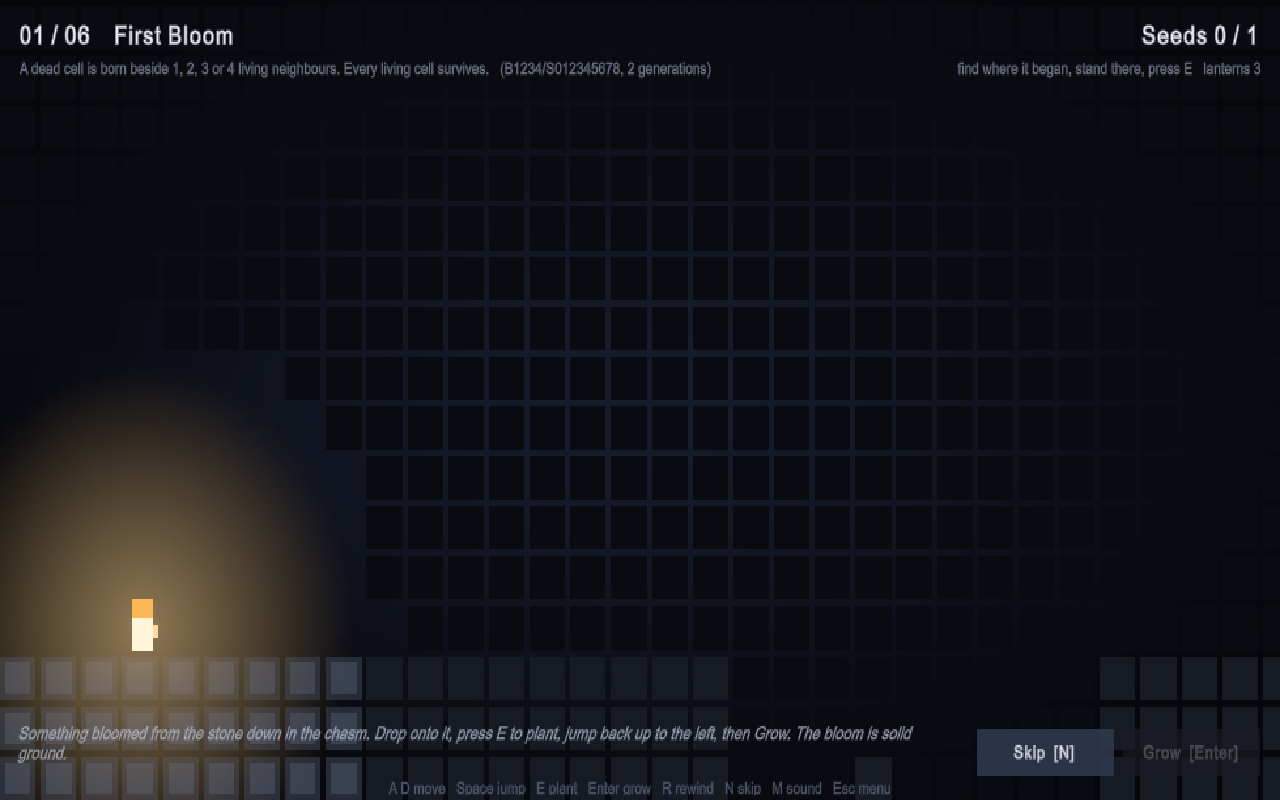
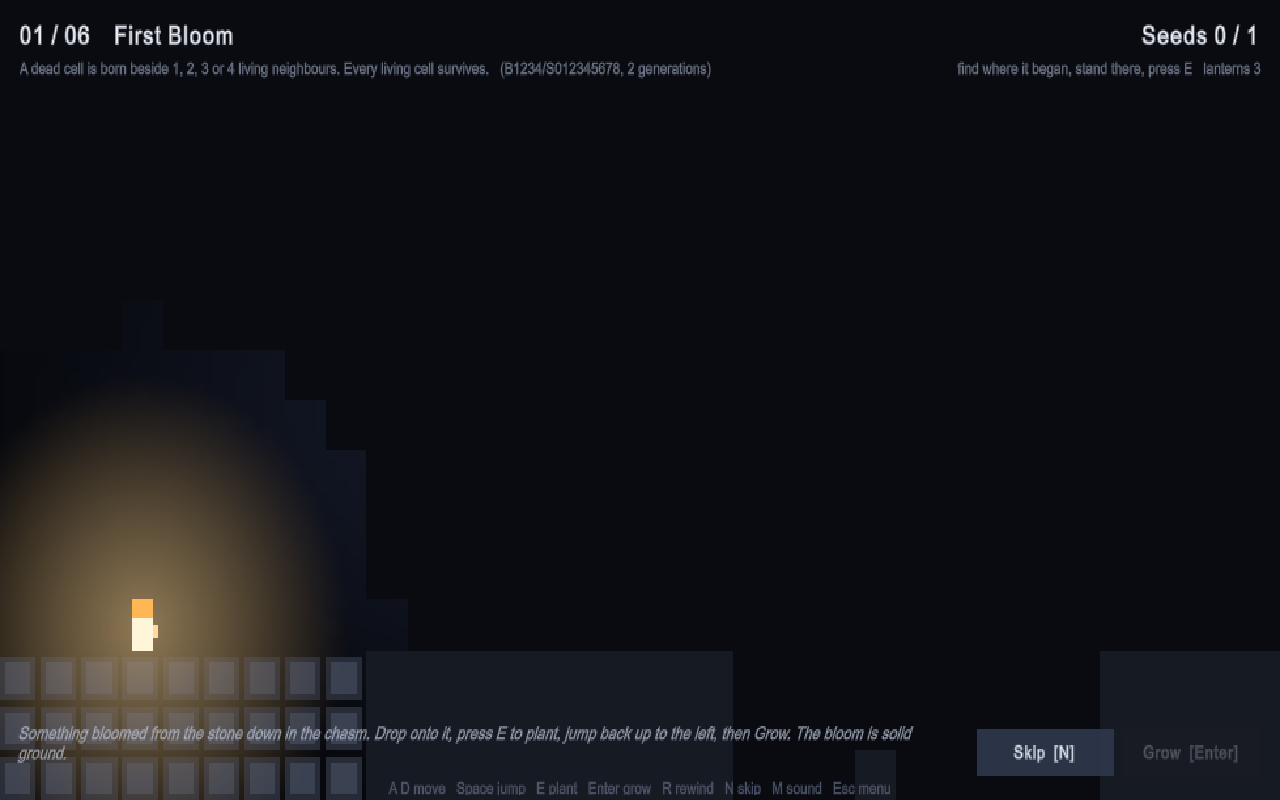
Seamless unexplored dark; README describes the platformer

Changed region(s): [[0.4062, 0.4062, 0.5938, 0.5938]]

diff --git a/unity/PointOfOrigin/Assets/Scripts/GameController.cs b/unity/PointOfOrigin/Assets/Scripts/GameController.cs
@@ -968,7 +968,7 @@ namespace PointOfOrigin
                     // air is empty sky; the unexplored dark is solid black; rock and the ghost frames are drawn
                     if (!visible)
                     {
-                        PaintCell(x, y, isRock ? ColRockDark : ColUnknown, isRock ? ColRockDark : ColUnknown, 0);
+                        PaintFull(x, y, isRock ? ColRockDark : ColUnknown);
                         continue;
                     }
                     if (isRock)
@@ -1023,6 +1023,19 @@ namespace PointOfOrigin
                     bool border = dx == lo || dy == lo || dx == hi - 1 || dy == hi - 1;
                     px[row + dx] = border ? edge : fill;
                 }
+            }
+        }
+
+        /// <summary>Fill a whole cell, gap included: the unexplored dark has no seams.</summary>
+        void PaintFull(int x, int y, Color32 color)
+        {
+            int tw = tex.width;
+            int x0 = x * CellPx;
+            int y0 = (level.h - 1 - y) * CellPx;
+            for (int dy = 0; dy < CellPx; dy++)
+            {
+                int row = (y0 + dy) * tw + x0;
+                for (int dx = 0; dx < CellPx; dx++) px[row + dx] = color;
             }
         }
 

diff --git a/README.md b/README.md
@@ -26,8 +26,8 @@ and the dark takes you, then you try again.
 | --- | --- | --- | --- |
 | Simulation core | [Odin](https://odin-lang.org) | `native/sim`, `native/plugin`, `native/cli` | A bounded Life-like automaton with rock cells and per-cell age, built once as `origin_sim.dll` for Unity and once as `origin_cli.exe` for the tools. One implementation, so a level's target is exactly what the game grows. |
 | Tooling | [Nexium](https://github.com/Londopy/nexium) | `build.nx`, `tools/bindgen.nx`, `tools/levels.nx` | `bindgen` reads the `@(export)` procs in the Odin plugin and writes the C# `DllImport` surface. `levels` compiles the `.origin` level files into `levels.json`, growing each target through the Odin CLI. `build.nx` runs the whole pipeline. |
-| Game | C# / Unity 6 (6000.6) | `unity/PointOfOrigin` | The isometric world (one vertex-coloured mesh rebuilt each frame by `WorldView`), the wanderer, input, HUD and synthesised audio. The scene holds only the template camera and light; everything else is built in code at load. |
-| Props | Houdini 22 | `houdini/diorama_base.hipnc` | The stone slab under every level: a subdivided box, noise on its sides, faceted, with flat shading baked into vertex colours in VEX. Apprentice cannot export FBX, so it is written as a plain triangle list (`Assets/Resources/Models/DioramaBase.txt`) that `MeshText` loads. |
+| Game | C# / Unity 6 (6000.6) | `unity/PointOfOrigin` | The side-scrolling world (painted into one point-filtered texture), the tile platformer physics, the wanderer, embers, input, HUD and synthesised audio. The scene holds only the template camera and light; everything else is built in code at load. |
+| Props | Houdini 22 | `houdini/diorama_base.hipnc` | A stone slab built for the earlier isometric version: a subdivided box, noise on its sides, faceted, flat shading baked into vertex colours in VEX, exported as a triangle list because Apprentice cannot write FBX. Kept in the repo (with `WorldView` and `MeshText`) but unused since the pivot to the platformer. |
 
 ```
 levels/*.origin ──► tools/levels.nx ──(origin_cli.exe)──► Assets/StreamingAssets/levels.json
@@ -84,27 +84,26 @@ column, and the tool grows the target for you. `intro` and `outro` lines carry
 the story:
 
 ```
-name Ember
-rule B1/S
-steps 3
-hint Rock does not grow and does not count.
+name First Bloom
+rule B1234/S012345678
+steps 2
+hint Something bloomed from the stone down in the chasm.
 map
-...............
-........#......
-.....o..#......
-........#......
-...............
+...s.....................................x..
+##################.........#################
+##################.........#################
+##################...o.....#################
+##################...#.....#################
 end
 ```
 
-Rules are Life-like rulestrings (`B3/S23`). The twenty jam levels use four
-laws: `B1/S012345678` (ripples that keep everything), `B1/S` (sparks that live
-one generation), `B1357/S1357` (a parity law whose echoes cancel like waves)
-and `B1/S12345678` (coral). An optional `tip` line is shown after the first
-failed attempt.
+Rules are Life-like rulestrings (`B3/S23`). The six chapters use four laws
+whose growth is walkable: `B1234/S012345678` (a bloom: a solid square),
+`B1/S` for one generation (a spark leaves a hollow ring), `B1357/S1357` (a
+parity echo, a cross inside a broken ring) and `B1/S12345678` (coral, a
+mound). An optional `tip` line is shown after the first failed attempt.
 
 The level compiler also asks the CLI to count how many seed placements grow
 the same target (`origin_cli --solve`, a search over the open cells inside the
-target's bounding box), so ambiguous levels show up at build time. Eighteen of
-the twenty levels have exactly one solution; the two three-seed finales have
-too many placements to count.
+target's bounding box), so ambiguous levels show up at build time. Every
+chapter has exactly one solution.
